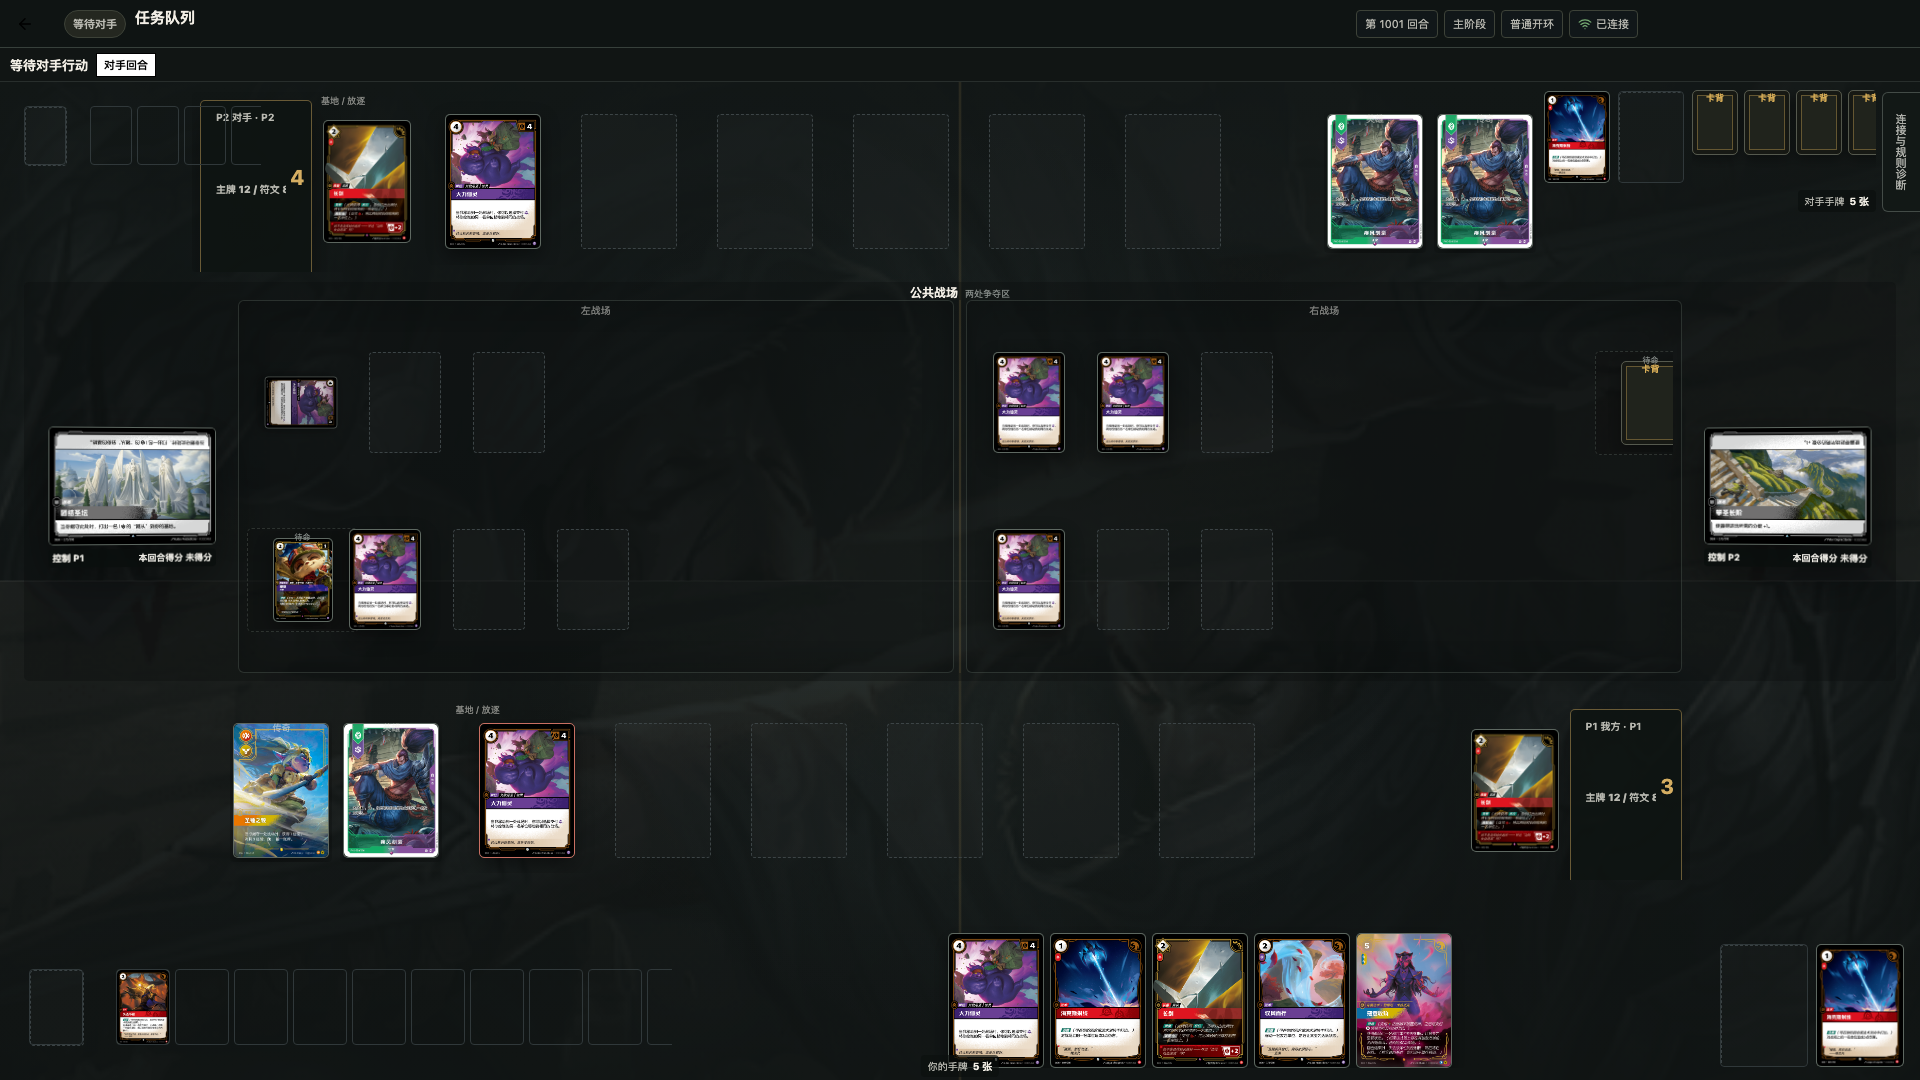
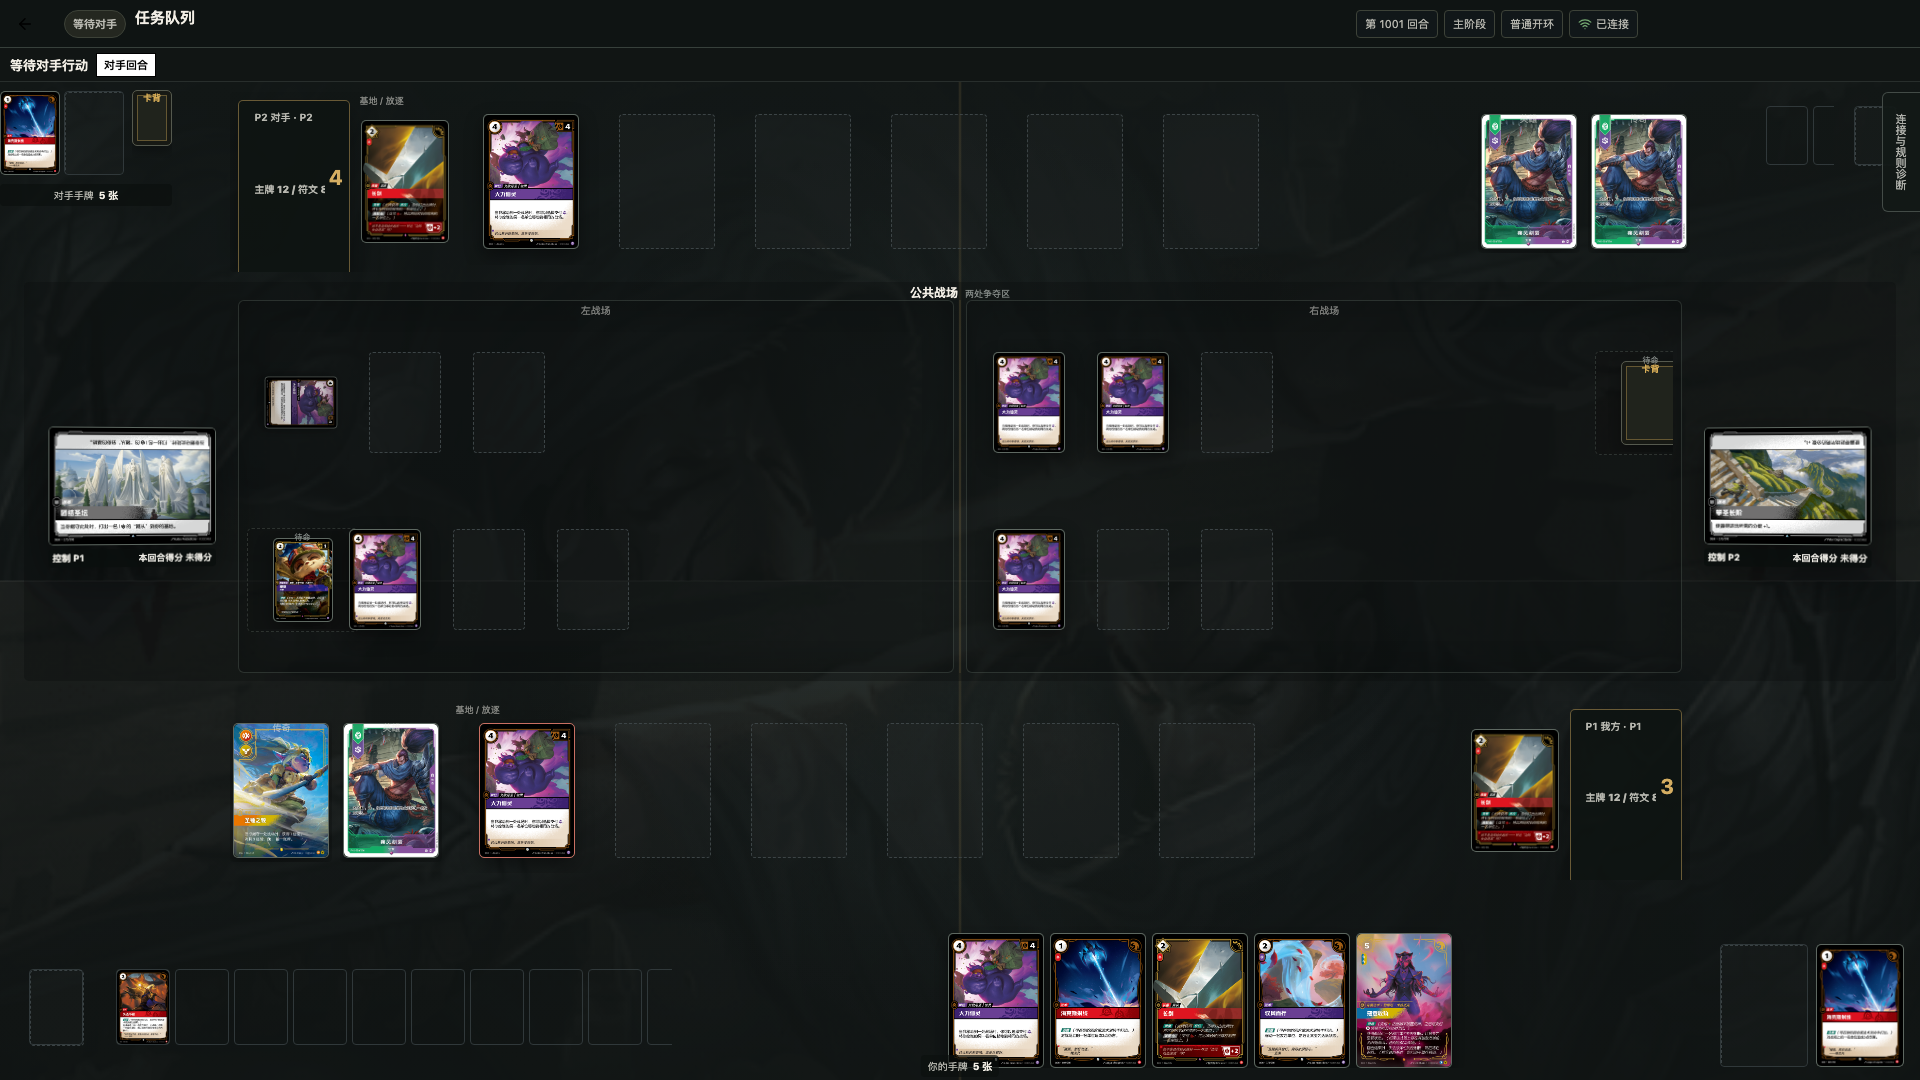
Mirror player zones for consistent board scanning

diff --git a/src/Riftbound.DevUi/src/styles/arena-table.css b/src/Riftbound.DevUi/src/styles/arena-table.css
@@ -193,8 +193,6 @@
 
 .arena-edge.is-opponent {
   top: 1%;
-  right: 20%;
-  left: 10%;
 }
 
 .arena-edge.is-self {
@@ -588,31 +586,38 @@
 }
 
 .playable-match-surface .arena-hand.is-opponent .wire-hand-zone {
-  right: 44px !important;
-  left: auto !important;
-  width: clamp(180px, calc(20vw - 52px), 340px) !important;
+  right: auto !important;
+  left: 0 !important;
+  width: 172px !important;
+  overflow: hidden !important;
 }
 
 .playable-match-surface .arena-hand.is-opponent .wire-hand-cards {
   top: 8px !important;
-  right: 0 !important;
+  right: auto !important;
   bottom: auto !important;
-  left: 148px !important;
-  width: auto !important;
-  height: 96px !important;
+  left: 132px !important;
+  width: 40px !important;
+  height: 68px !important;
+  overflow: hidden !important;
   transform: none !important;
 }
 
 .playable-match-surface .arena-hand.is-opponent .wire-card-flow-hand {
-  --wire-card-w: 46px !important;
-  --wire-card-h: 65px !important;
+  --wire-card-w: 40px !important;
+  --wire-card-h: 56px !important;
   align-items: flex-start !important;
   justify-content: flex-start !important;
+  overflow: hidden !important;
 }
 
 .playable-match-surface .arena-hand.is-opponent .arena-fan-card {
   margin-left: 0 !important;
   transform: none !important;
+}
+
+.playable-match-surface .arena-hand.is-opponent .arena-fan-card:not(:first-child) {
+  display: none !important;
 }
 
 .playable-match-surface .arena-hand.is-opponent .arena-fan-card:hover,
@@ -627,12 +632,14 @@
 }
 
 .playable-match-surface .arena-hand.is-opponent .wire-hand-rune-deck {
-  left: 12px !important;
+  right: 12px !important;
+  left: auto !important;
 }
 
 .playable-match-surface .arena-hand.is-opponent .wire-hand-rune-track {
-  left: 86px !important;
-  width: max(72px, calc(14vw - 94px)) !important;
+  right: 86px !important;
+  left: auto !important;
+  width: 72px !important;
   overflow: hidden !important;
 }
 
@@ -646,10 +653,10 @@
 }
 
 .playable-match-surface .arena-hand.is-opponent .wire-hand-rail {
-  --wire-fixed-pile-card-w: 66px !important;
-  --wire-fixed-pile-card-h: 92px !important;
-  --wire-fixed-pile-slot-w: 66px !important;
-  --wire-fixed-pile-slot-h: 92px !important;
+  --wire-fixed-pile-card-w: 60px !important;
+  --wire-fixed-pile-card-h: 84px !important;
+  --wire-fixed-pile-slot-w: 60px !important;
+  --wire-fixed-pile-slot-h: 84px !important;
   --wire-rune-card-w: 42px !important;
   --wire-rune-card-h: 59px !important;
 }
@@ -664,9 +671,10 @@
 }
 
 .playable-match-surface .arena-hand.is-opponent .wire-hand-piles {
-  width: 140px !important;
-  height: 100px !important;
-  grid-template-columns: repeat(2, 66px) !important;
+  width: 124px !important;
+  height: 92px !important;
+  grid-template-columns: repeat(2, 60px) !important;
+  gap: 4px !important;
 }
 
 .playable-match-surface .arena-hand.is-opponent .wire-hand-piles {
@@ -677,10 +685,12 @@
 }
 
 .playable-match-surface .arena-hand.is-opponent .wire-hand-summary {
-  top: 108px !important;
-  right: 44px !important;
+  top: 102px !important;
+  right: auto !important;
   bottom: auto !important;
-  left: auto !important;
+  left: 0 !important;
+  width: 172px !important;
+  justify-content: center !important;
   transform: none !important;
 }
 
@@ -1478,11 +1488,6 @@
     left: 11%;
   }
 
-  .arena-edge.is-opponent {
-    right: 20%;
-    left: 8%;
-  }
-
   .playable-match-surface .arena-table .wire-battlefield-stack {
     --wire-card-w: 70px !important;
     --wire-card-h: 98px !important;
@@ -1529,6 +1534,51 @@
 
   .playable-match-surface .arena-hand.is-self .wire-hand-cards {
     left: 432px !important;
+  }
+
+  .playable-match-surface .arena-hand.is-opponent .wire-hand-rail {
+    --wire-fixed-pile-card-w: 50px !important;
+    --wire-fixed-pile-card-h: 70px !important;
+    --wire-fixed-pile-slot-w: 50px !important;
+    --wire-fixed-pile-slot-h: 70px !important;
+  }
+
+  .playable-match-surface .arena-hand.is-opponent .wire-hand-zone {
+    width: 140px !important;
+  }
+
+  .playable-match-surface .arena-hand.is-opponent .wire-hand-piles {
+    width: 104px !important;
+    height: 78px !important;
+    grid-template-columns: repeat(2, 50px) !important;
+  }
+
+  .playable-match-surface .arena-hand.is-opponent .wire-hand-cards {
+    left: 108px !important;
+    width: 32px !important;
+    height: 52px !important;
+  }
+
+  .playable-match-surface .arena-hand.is-opponent .wire-card-flow-hand {
+    --wire-card-w: 32px !important;
+    --wire-card-h: 45px !important;
+  }
+
+  .playable-match-surface .arena-hand.is-opponent .wire-hand-rune-deck {
+    right: 8px !important;
+    width: 50px !important;
+    height: 70px !important;
+  }
+
+  .playable-match-surface .arena-hand.is-opponent .wire-hand-rune-track {
+    right: 64px !important;
+    width: 68px !important;
+    height: 70px !important;
+  }
+
+  .playable-match-surface .arena-hand.is-opponent .wire-hand-summary {
+    top: 82px !important;
+    width: 140px !important;
   }
 }
 
@@ -1701,6 +1751,10 @@
     height: 78px !important;
   }
 
+  .playable-match-surface .arena-hand.is-opponent .arena-fan-card:not(:first-child) {
+    display: block !important;
+  }
+
   .playable-match-surface .arena-hand.is-opponent .wire-hand-cards {
     top: 4px !important;
     right: 62px !important;
@@ -1711,6 +1765,7 @@
 
   .playable-match-surface .arena-hand.is-opponent .wire-hand-rune-deck {
     top: 4px !important;
+    right: auto !important;
     left: 4px !important;
     width: 50px !important;
     height: 70px !important;
@@ -1718,6 +1773,7 @@
 
   .playable-match-surface .arena-hand.is-opponent .wire-hand-rune-track {
     top: 4px !important;
+    right: auto !important;
     left: 60px !important;
     width: 90px !important;
     height: 70px !important;

diff --git a/src/Riftbound.DevUi/README.md b/src/Riftbound.DevUi/README.md
@@ -26,13 +26,13 @@ npm --prefix src/Riftbound.DevUi run dev
 
 - 桌面首屏把公共战场收敛到有效牌桌高度的约 40%，为传奇、英雄、分槽基地、牌库和符文保留更大的上下玩家区。
 - 本玩家手牌位于底部独立横向队列，静止高度不超过视口的 18%；符文在左下，主牌堆与相关牌堆在右下，四个区域互不遮挡。
-- 两张战场牌位于公共战场左右两侧，双方基地、英雄、传奇、分数与牌堆沿上下边缘排列。
-- 基地至少展示六个可扩展视觉卡槽，并利用两侧原有留白延长基地带；主视角桌面首屏完整显示六格，对手侧在需要避让手牌辅助轨道时保留六格容量并在基地内部滚动，移动端至少完整显示当前一格。每个单位独占一格，视觉卡槽不构成规则容量。
+- 两张战场牌位于公共战场左右两侧。双方公开区以牌桌中心作横向镜像：我方依次为传奇、英雄、基地、分数，对手对应为分数、基地、英雄、传奇。
+- 双方基地至少展示六个同宽、可扩展的视觉卡槽，桌面首屏完整显示六格，移动端至少完整显示当前一格。每个单位独占一格，视觉卡槽不构成规则容量。
 - 牌桌缩略图直接显示官方完整卡面，不再叠加重复的费用、力量或名称方框。
 - 直接点击服务器标记为合法的来源、位置和目标；上下文托盘只提交服务器候选命令。按 `Esc` 清除本地选择草稿。
 - 起手调度、支付费用、分配战斗伤害、触发排序和手牌选择使用居中复杂提示。
 - 连接、日志和规则细节在桌面端默认收进右侧“连接与规则诊断”抽屉；移动端隐藏该诊断入口，避免覆盖牌桌。
-- 对手手牌与暗牌只显示卡背及数量，永不使用正面图或身份作为背景。
+- 对手手牌与暗牌只显示卡背及数量；桌面收束为单张卡背加数量，移动端保留卡背队列。任何视口都不使用正面图或身份作为背景。
 
 桌面优先视口为 1440x900 与 1920x1080；1280x720 保持核心操作可达；390x844 使用独立移动布局和可键盘聚焦的战场滚动区。
 

diff --git a/src/Riftbound.DevUi/artifacts/web-arena/README.md b/src/Riftbound.DevUi/artifacts/web-arena/README.md
@@ -53,4 +53,4 @@ RIFTBOUND_QA_OUTPUT_ROOT=/tmp/riftbound-arena-qa-full npm --prefix src/Riftbound
 npm --prefix src/Riftbound.DevUi run smoke:chrome -- --start-api
 ```
 
-覆盖视口：1920x1080、1440x900、1280x720、390x844。浏览器检查包括无文档级溢出、桌面约 40% 的战场比例、手牌比例、传奇/英雄/基地最小尺寸、牌库与符文最小尺寸、基地至少六个独立视觉槽、按滚动容器真实裁剪边界计算的可见卡牌与资源区零交叠、官方卡图无重复覆盖标签、卡牌完整可见、直接点选、Esc 清除、复杂提示、键盘可访问性和 Axe 扫描。
+覆盖视口：1920x1080、1440x900、1280x720、390x844。浏览器检查包括无文档级溢出、桌面约 40% 的战场比例、手牌比例、传奇/英雄/基地最小尺寸、牌库与符文最小尺寸、双方公开区相对牌桌中心的镜像误差不超过 2px、双方基地同宽且桌面各完整显示六个独立视觉槽、按滚动容器真实裁剪边界计算的可见卡牌与资源区零交叠、官方卡图无重复覆盖标签、卡牌完整可见、直接点选、Esc 清除、复杂提示、键盘可访问性和 Axe 扫描。
